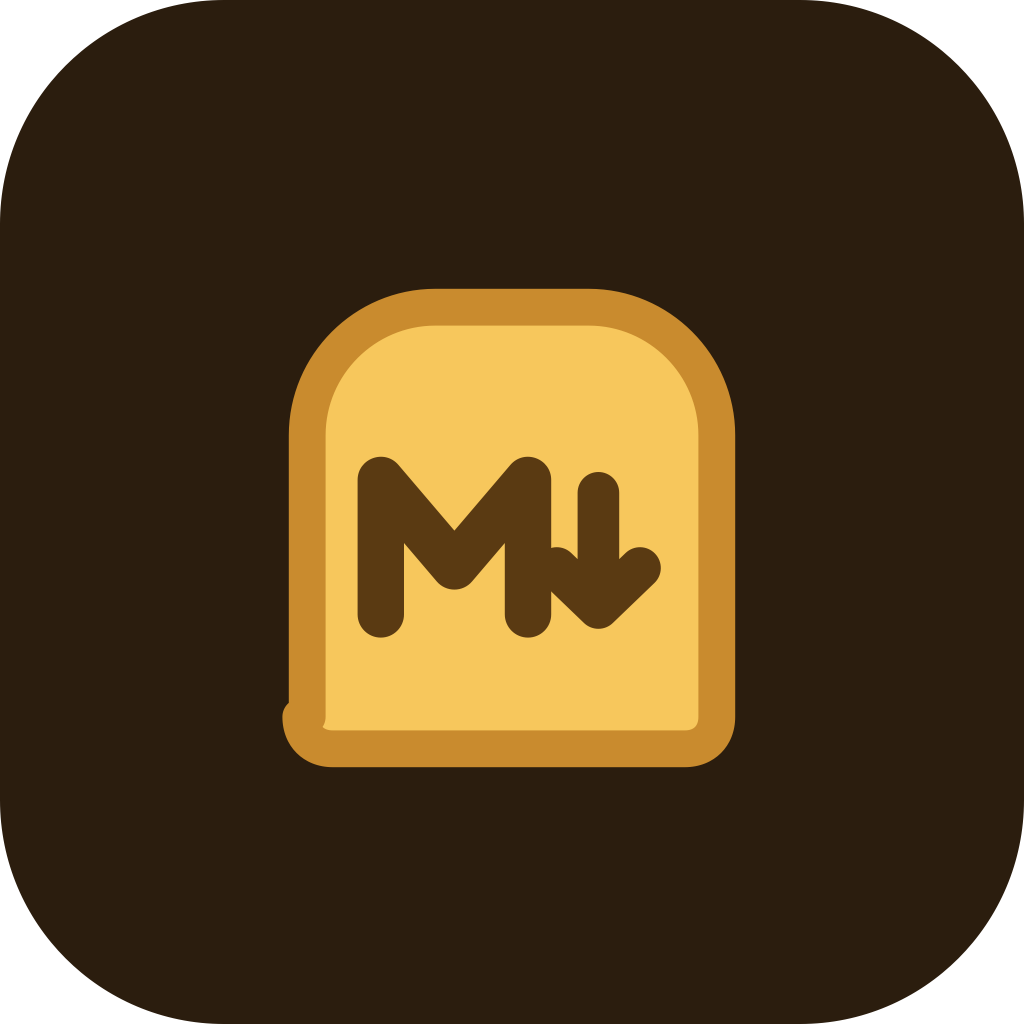
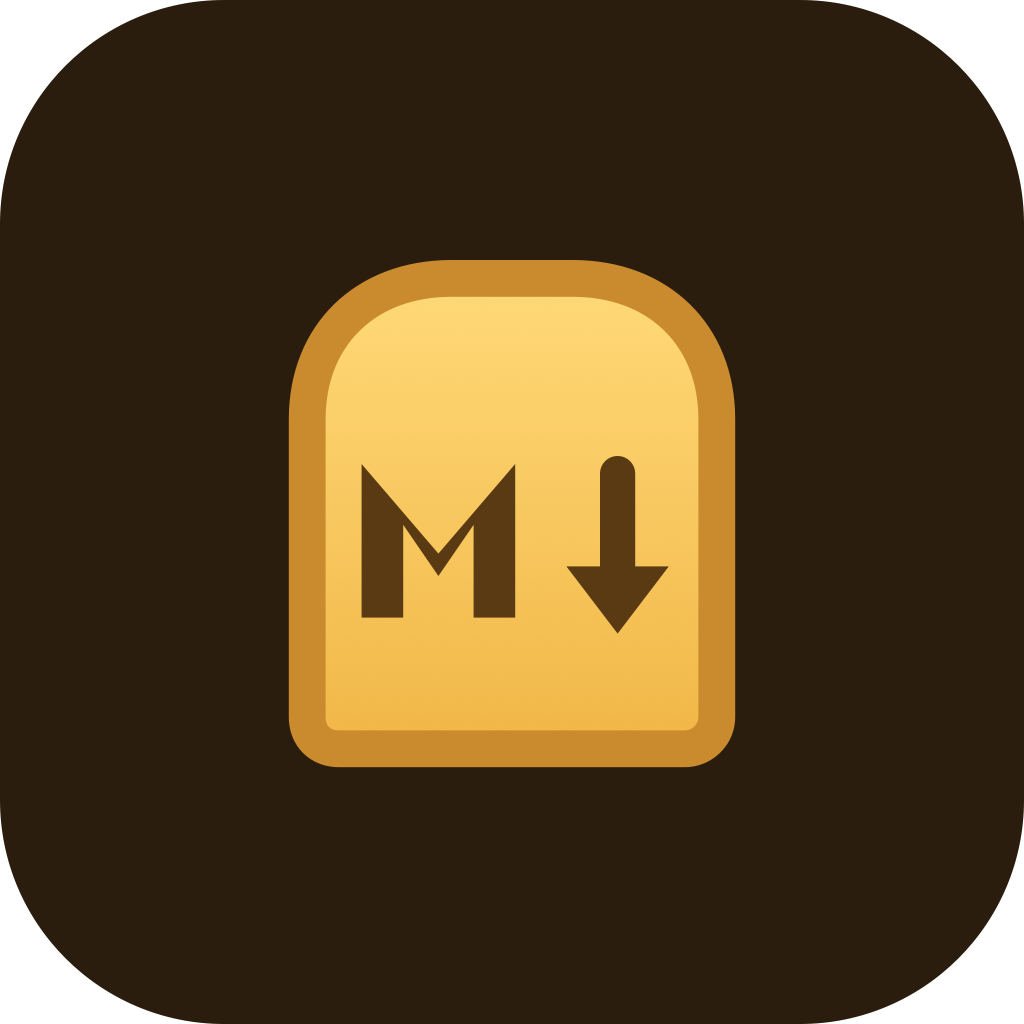
feat(brand): polish the toast mark
- fix the bottom-left artifact: the toast path now starts at the rounded
  corner and closes exactly where it began (no 0.2-unit stub)
- bread silhouette: domed top, flat bottom (H variant), soft golden
  vertical gradient (#FFD978 → #F1B747) with a toasted crust outline
- Markdown lettering redesigned: a filled geometric M (straight bars,
  sharp V) plus a proper down arrow (stem + solid triangular head),
  spaced so M and ↓ read separately at 24px+
- fix inherited CSS from .logo (fill:none/stroke:currentColor) that was
  outlining the mark white in dark mode: explicit stroke="none" on fills
- sidebar mark at 28px, dialog 20px; favicon and desktop icon regenerated
- refreshed screenshots and logo preview

diff --git a/frontend/index.html b/frontend/index.html
@@ -12,10 +12,17 @@
 </head>
 <body>
   <svg class="icon-sprite" aria-hidden="true">
+    <defs>
+      <linearGradient id="toastGrad" x1="0" y1="0" x2="0" y2="1">
+        <stop offset="0" stop-color="#FFD978"/>
+        <stop offset="1" stop-color="#F1B747"/>
+      </linearGradient>
+    </defs>
     <symbol id="icon-logo" viewBox="0 0 20 20">
-      <path d="M3.6 16.4V7.6C3.6 5.4 5.4 3.6 7.6 3.6h4.8c2.2 0 4 1.8 4 4v8.8c0 .6-.4 1-1 1h-11c-.6 0-1-.4-1-1Z" fill="#F7C75C" stroke="#C98B2E" stroke-width="1.15" stroke-linejoin="round"/>
-      <path d="M5.9 13.2V9.0l2.3 2.7 2.3-2.7v4.2" fill="none" stroke="#5A3A12" stroke-width="1.45" stroke-linecap="round" stroke-linejoin="round"/>
-      <path d="M12.7 9.4v3.6m0 0 1.3-1.25m-1.3 1.25L11.4 11.75" fill="none" stroke="#5A3A12" stroke-width="1.3" stroke-linecap="round" stroke-linejoin="round"/>
+      <path d="M4.6 17.4H15.4C15.9 17.4 16.4 17 16.4 16.4V7.1C16.4 4.4 14.5 2.7 11.9 2.7H8.1C5.5 2.7 3.6 4.4 3.6 7.1V16.4C3.6 17 4 17.4 4.6 17.4Z" fill="url(#toastGrad)" stroke="#C98B2E" stroke-width="1.15" stroke-linejoin="round"/>
+      <path d="M5.3 13.3V8.5l2.4 2.8 2.4-2.8v4.8H8.8v-2.9L7.7 12l-1.1-1.6v2.9Z" fill="#5A3A12" stroke="none"/>
+      <path d="M13.3 8.8v3.2" stroke="#5A3A12" stroke-width="1.1" stroke-linecap="round"/>
+      <path d="M11.7 11.7h3.2L13.3 13.8Z" fill="#5A3A12" stroke="none"/>
     </symbol>
     <symbol id="icon-search" viewBox="0 0 20 20">
       <circle cx="8.7" cy="8.7" r="5.2"></circle>

diff --git a/frontend/style.css b/frontend/style.css
@@ -141,7 +141,7 @@ a { color: inherit; text-decoration: none; }
   font-weight: 500;
   letter-spacing: .02em;
 }
-.side-top .logo { width: 24px; height: 24px; }
+.side-top .logo { width: 28px; height: 28px; }
 .brand .logo, .dialog-title-wrap .logo { width: 20px; height: 20px; }
 .side-brand-name { color: var(--fg); font-size: 12.5px; font-weight: 600; }
 .drag-grip {
